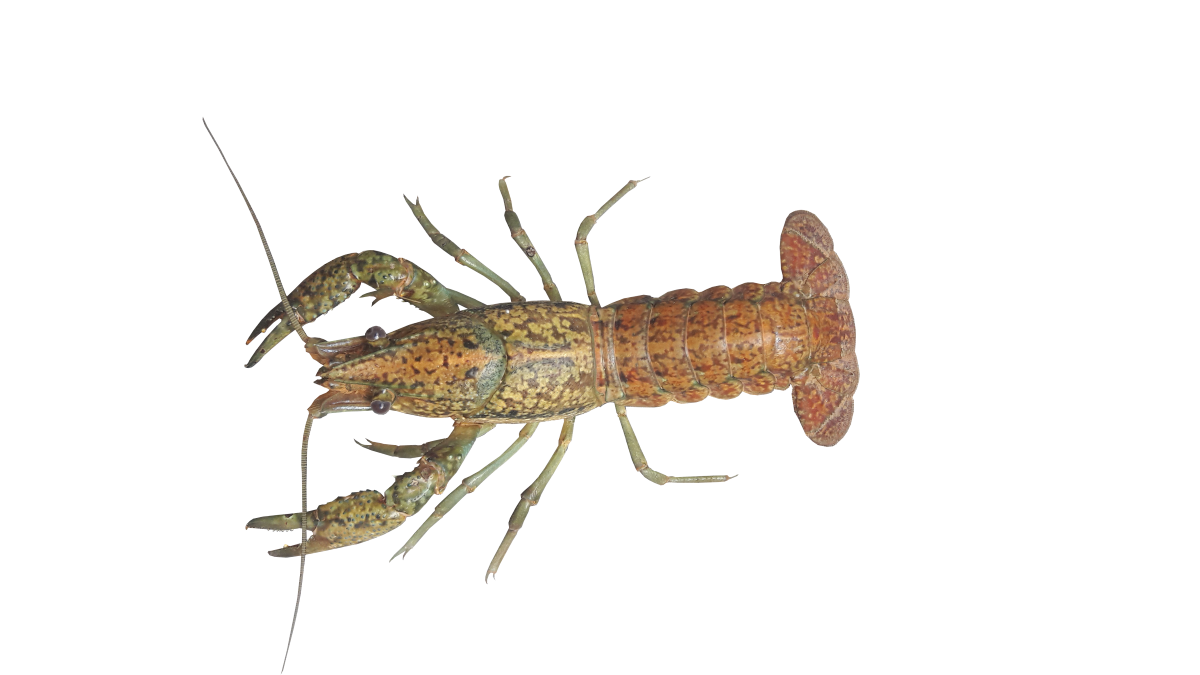
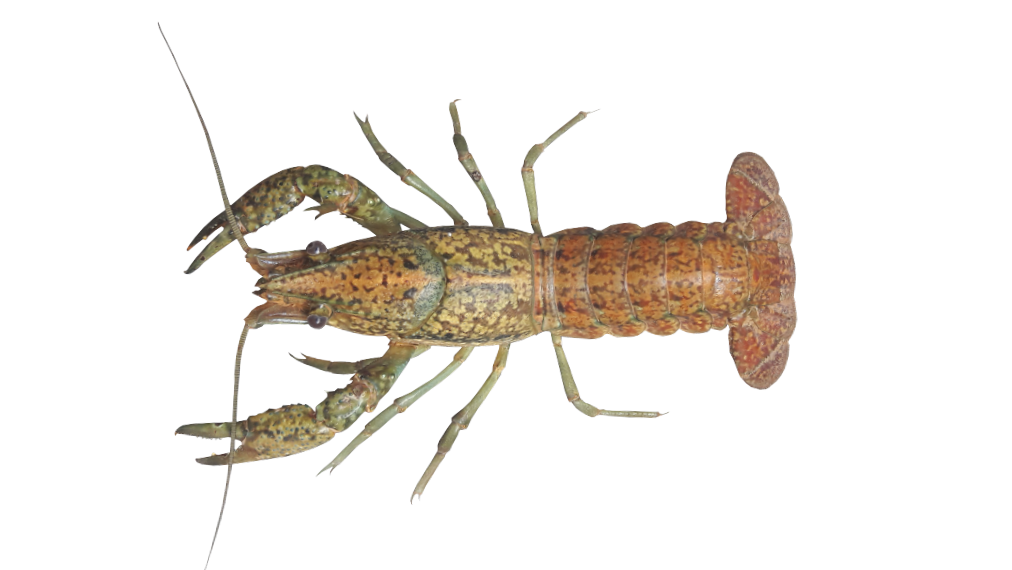
update picture virginalis

Changed region(s): [[0.1532, 0.1789, 0.7964, 0.9544], [0.5514, 0.1789, 0.582, 0.2386], [0.337, 0.2088, 0.3676, 0.2386]]

diff --git a/pages/soorten/index.md b/pages/soorten/index.md
@@ -3,10 +3,10 @@ layout: archive
 title: Soorten
 permalink: /soorten/
 pages:
-- title: Gevlekte Amerikaanse rivierkreeft
+- title: gevlekte Amerikaanse rivierkreeft
   img: /assets/images/f_limosus_XV.jpg
   href: /soorten/faxonius-limosus/
-- title: Geknobbelde Amerikaanse rivierkreeft
+- title: geknobbelde Amerikaanse rivierkreeft
   img: 
   href: /soorten/faxonius-virilis/
 - title: Europese rivierkreeft
@@ -21,10 +21,10 @@ pages:
 - Rode Amerikaanse rivierkreeft
   img: /assets/images/rode.jpg
   href: /soorten/procambarus-clarkii/
-- title: Marmerkreeft
-  img: /assets/images/marmer.jpg
+- title: marmerkreeft
+  img: /assets/images/p_virginalis_wit.png
   href: /soorten/procambarus-virginalis/
-- title: Gestreepte Amerikaanse rivierkreeft
+- title: gestreepte Amerikaanse rivierkreeft
   img: /assets/images/gestreepte.jpg
   href: /soorten/procambarus-acutus/
 ---
